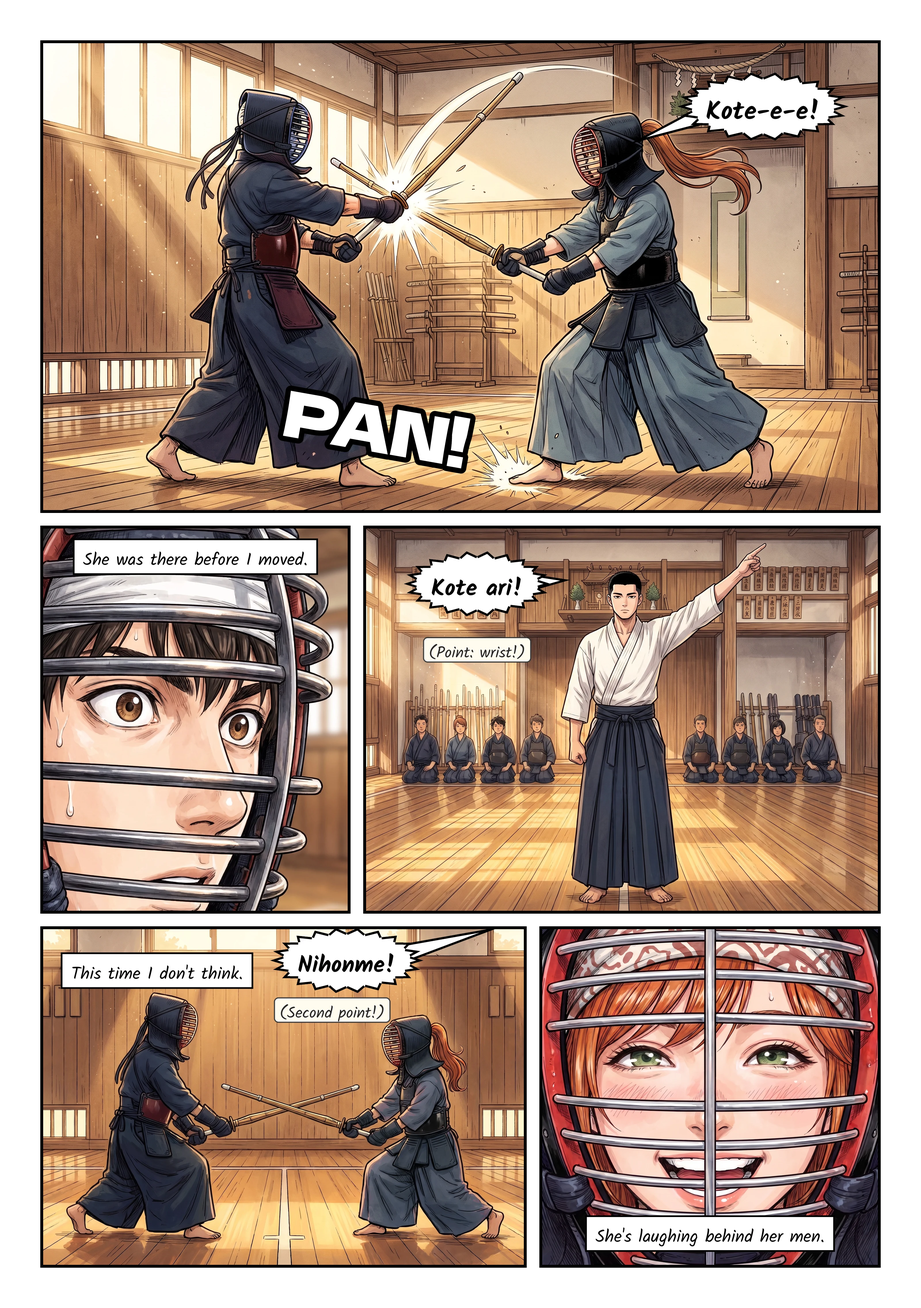
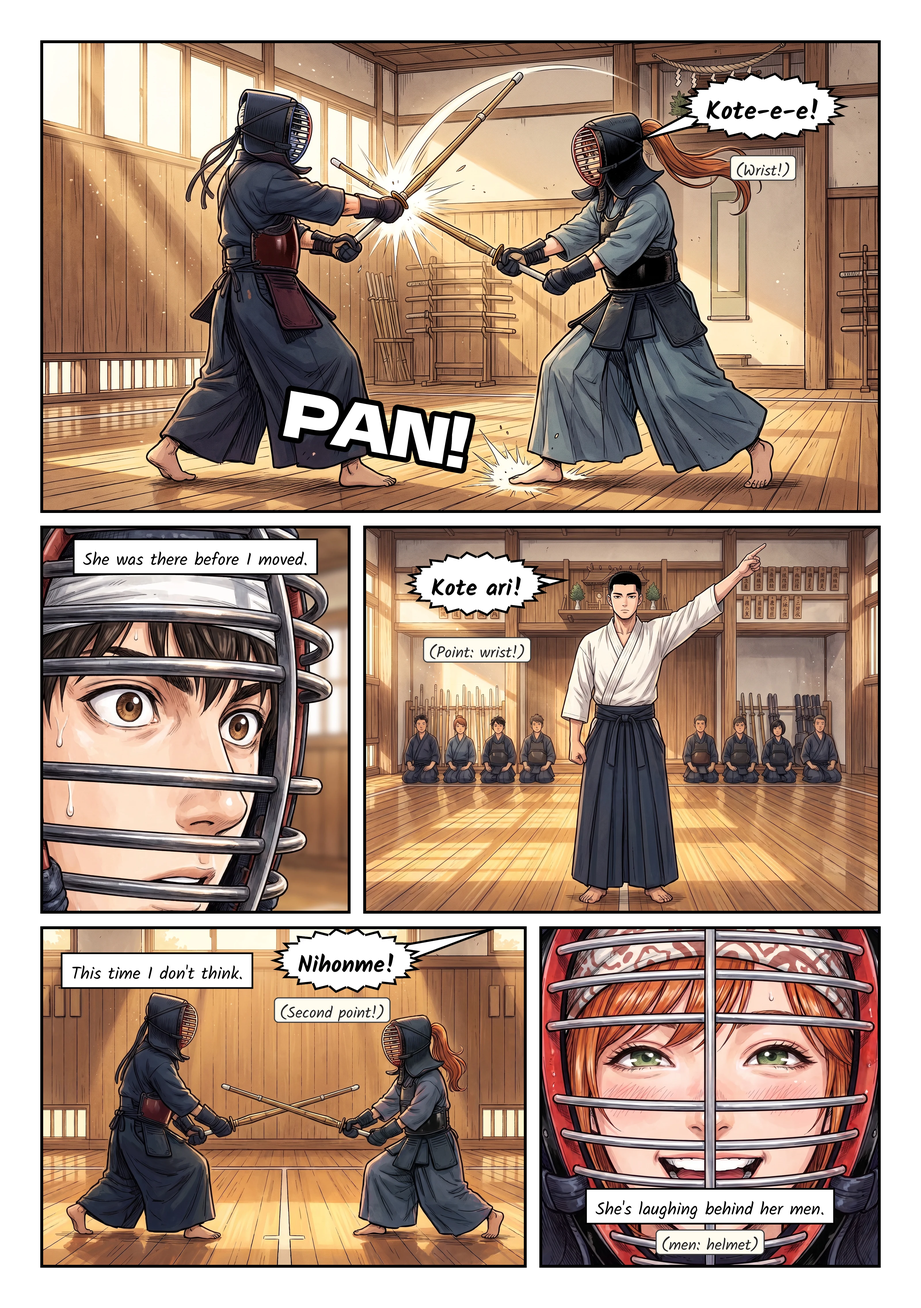
Ch2 punch list (Oct 25), checkpoint: script edits, Wednesday-morning Nanoha scene, glosses on every use, inserts open on panel 1, face windows wait for their image, tap hint during texts, Natsuki +0.5 for Ch2
Claude-Session: https://claude.ai/code/session_01RwxJ99cbnypmrRJW8WLjFt

Changed region(s): [[0.625, 0.9062, 0.9062, 0.9688], [0.7812, 0.0938, 0.875, 0.1562]]

diff --git a/v2/index.html b/v2/index.html
@@ -143,6 +143,12 @@ html,body{height:100%;margin:0;background:var(--ink);color:var(--paper);overflow
   background:rgba(240,236,228,.95);border-radius:22px;box-shadow:0 18px 50px rgba(0,0,0,.5);
   opacity:0;transform:translateY(12px);transition:opacity .35s,transform .35s;pointer-events:none;color:#1b1d26}
 #phone.on{opacity:1;transform:none}
+/* text messages hide the text box, so a small hint says what to do (author, Oct 25) */
+#tapHint{position:absolute;left:50%;bottom:clamp(18px,5vh,44px);transform:translateX(-50%);font:600 clamp(12px,1.7vh,15px)/1 var(--f-body);letter-spacing:.14em;text-transform:uppercase;
+  color:var(--paper-dim);background:rgba(16,19,31,.72);padding:9px 16px;border-radius:999px;opacity:0;transition:opacity .4s;pointer-events:none;z-index:6}
+#tapHint.on{opacity:1;animation:hintPulse 2.4s ease-in-out .4s infinite}
+@keyframes hintPulse{50%{opacity:.55}}
+#tapHint .k::before{content:'Tap'} @media (hover:hover) and (pointer:fine){ #tapHint .k::before{content:'Click'} }
 #phone .ph{font:700 13px/1 var(--f-body);color:#5b5f70;text-align:center;padding-bottom:6px;border-bottom:1px solid rgba(0,0,0,.08);letter-spacing:.04em}
 .msg{max-width:82%;padding:8px 12px;border-radius:16px;font-size:clamp(14px,1.9vh,17px);line-height:1.4;animation:pop .25s ease-out}
 .msg.me{align-self:flex-end;background:#e98fa4;color:#fff;border-bottom-right-radius:5px}
@@ -305,6 +311,7 @@ input{-webkit-user-select:text;user-select:text}
   <div id="ins" class="layer" aria-hidden="true"></div>
   <div id="ilabel"></div>
   <div id="phone"><div class="ph">Chie</div></div>
+  <div id="tapHint" aria-hidden="true"><span class="k"></span> to continue ▾</div>
   <div id="box" class="hidden" role="region" aria-live="polite">
     <div id="face" aria-hidden="true"><img alt=""></div>
     <div id="name"></div>
@@ -613,17 +620,18 @@ function toast(t){ const el=$('#toast'); el.textContent=t; el.classList.add('on'
 /* ---------- phone ---------- */
 function phoneMsg(who,text){ const p=$('#phone'); p.classList.add('on'); const m=document.createElement('div'); m.className='msg '+(who==='me'?'me':'them'); m.textContent=text; p.appendChild(m);
   while(p.scrollHeight>p.clientHeight && p.children.length>2) p.children[1].remove(); }
-function phoneClear(){ const p=$('#phone'); p.classList.remove('on'); setTimeout(()=>{ if(!p.classList.contains('on')) [...p.querySelectorAll('.msg')].forEach(m=>m.remove()); },400); }
+function tapHint(on){ const h=$('#tapHint'); clearTimeout(tapHint.t); if(!on||skipOn){ h.classList.remove('on'); return; } tapHint.t=setTimeout(()=>h.classList.add('on'), 600); }
+function phoneClear(){ tapHint(false); const p=$('#phone'); p.classList.remove('on'); setTimeout(()=>{ if(!p.classList.contains('on')) [...p.querySelectorAll('.msg')].forEach(m=>m.remove()); },400); }
 
 /* ---------- text ---------- */
 function cps(){ return prefs.text>=100?1e9: 18+prefs.text*1.1; }
 /* {term|gloss} shows a Japanese term with a small English gloss after it (style guide §5) */
 /* a term with a translator's note (script.json "notes", from production/pilot-v2/script/notes.txt) is underlined, and a tap opens the note */
-function segs(t){ const out=[]; let m, last=0, re=/\{([^|}]+)\|([^}]+)\}/g;
-  while((m=re.exec(t))){ if(m.index>last) out.push({t:t.slice(last,m.index)}); const k=m[1].trim().toLowerCase(), n=NOTES[k]?k:null;
+function segs(t){ const out=[]; let m, last=0, re=/\{([^|}]+)\|([^|}]+)(?:\|([^}]+))?\}/g;   // {term|gloss} or {term|gloss|note key}
+  while((m=re.exec(t))){ if(m.index>last) out.push({t:t.slice(last,m.index)}); const k=(m[3]||m[1]).trim().toLowerCase(), n=NOTES[k]?k:null;
     out.push({t:m[1], n, gl:m[2]}); out.push({t:'\u00a0('+m[2]+')', g:1, n}); last=re.lastIndex; }
   if(last<t.length) out.push({t:t.slice(last)}); return out; }
-function plain(t){ return String(t||'').replace(/\{([^|}]+)\|([^}]+)\}/g,'$1 ($2)'); }
+function plain(t){ return String(t||'').replace(/\{([^|}]+)\|([^|}]+)(?:\|[^}]+)?\}/g,'$1 ($2)'); }
 let curSegs=[], curLen=0;
 function renderTo(n){ textEl.textContent=''; let left=n, wrap=null;
   for(const x of curSegs){ if(left<=0) break; const piece=x.t.slice(0,left); left-=x.t.length;
@@ -666,10 +674,16 @@ function faceFor(c){
   const spr=lastSpr[w]||firstSpr(w); return spr ? `img/face/${spr}.webp` : null;
 }
 function firstSpr(w){ const c=S&&S.find(c=>c.t==='show'&&c.who===w); return c?c.spr:null; }
+const faceIms={};
+function faceIm(url){ if(!faceIms[url]){ const i=new Image(); i.src=url; faceIms[url]=i; } return faceIms[url]; }
 function showFace(url, who){
+  const tok=showFace.tok=(showFace.tok||0)+1;
   if(!url){ faceEl.classList.remove('on'); box.classList.remove('withface'); return; }
-  faceEl.style.setProperty('--nc',(CHAR[who]||{}).c||'var(--gilt)');
-  if(!faceImg.src.endsWith(url)) faceImg.src=url; faceEl.classList.add('on'); box.classList.add('withface');
+  faceEl.style.setProperty('--nc',(CHAR[who]||{}).c||'var(--gilt)'); box.classList.add('withface');
+  if(faceImg.src.endsWith(url)){ faceEl.classList.add('on'); return; }
+  const im=faceIm(url), put=()=>{ if(tok!==showFace.tok) return; faceImg.src=url; faceEl.classList.add('on'); };
+  if(im.complete&&im.naturalWidth) put();
+  else { faceEl.classList.remove('on'); (im.decode?im.decode():new Promise(r=>{im.onload=im.onerror=r;})).then(put,put); }   // a face that hasn't loaded yet: the window waits for it instead of showing the last one
 }
 
 /* ---------- short animated moments (canon §2, the Ch2 catch): img/anim/NAME.mp4 plays once over the stage, then the
@@ -711,7 +725,7 @@ function insertStart(c){
   insData(c.name).then(d=>{
     if(tok!==insertStart.tok || curLine!==c) return;
     const steps=[]; let g=0;
-    d.pages.forEach((p,pi)=>{ steps.push({pg:pi, box:null, g:-1}); p.panels.forEach(b=>steps.push({pg:pi, box:b, g:g++})); });
+    d.pages.forEach((p,pi)=>{ p.panels.forEach(b=>steps.push({pg:pi, box:b, g:g++})); });   // no whole-page step: each page opens on its first panel (author, Oct 25)
     if(g!==c.panels.length) note('insert', `${c.name}: ${g} panel boxes for ${c.panels.length} scripted panels`);
     insEl.innerHTML=''; insEl.style.transition='';
     const pages=d.pages.map(p=>{ const e=document.createElement('div'); e.className='ipg'; e.style.width=d.w+'px'; e.style.height=d.h+'px';
@@ -770,7 +784,7 @@ function run(){
     if(state.i>=S.length){ store.set('v2cont',null); return endPilot(); }
     while(state.i<S.length){
       const c=S[state.i++];
-      if(c.t!=='phone' && c.t!=='say' && c.t!=='nar') {/* fallthrough */}
+      if(c.t!=='phone') tapHint(false);
       switch(c.t){
         case 'scene': state.scene=c.id; store.set('v2cont',snap()); break;
         case 'bg': phoneClear(); if(state.cg) setCg(null, c.tr==='cut'||c.tr==='flash'?'cut':'fade'); setBg(c.name,c.tr); hideAll(); if(c.name==='black'||c.name==='white') box.classList.add('hidden'); if(c.tr==='slow'||c.tr==='flash') return pause(skipOn?80:(c.name==='black'||c.name==='white')&&c.tr==='slow'?1900:1100); if(c.name==='black'||c.name==='white') return pause(skipOn?60:600); break;
@@ -792,7 +806,7 @@ function run(){
         case 'video': break; // future cutscenes: falls back to continuing
         case 'anim': return playAnim(c);
         case 'insert': return insertStart(c);
-        case 'phone': if(!skipOn) playSfx('notif'); showFace(null); curLine=c; box.classList.add('hidden'); phoneMsg(c.who,c.text); nameEl.textContent=''; textEl.textContent=''; log.push({who:c.who==='me'?'Natsuki (text)':'Chie (text)',t:c.text}); devUpdate(); return waitTap(0);
+        case 'phone': if(!skipOn) playSfx('notif'); showFace(null); curLine=c; box.classList.add('hidden'); phoneMsg(c.who,c.text); tapHint(true); nameEl.textContent=''; textEl.textContent=''; log.push({who:c.who==='me'?'Natsuki (text)':'Chie (text)',t:c.text}); devUpdate(); return waitTap(0);
         case 'say': case 'nar': return line(c);
       }
     }
@@ -1170,7 +1184,7 @@ function loadScript(){
   if(!scriptP) scriptP=fetch('script.json').then(r=>{ if(!r.ok) throw new Error('could not load the story (script.json '+r.status+')'); return r.json(); })
     .then(j=>{ S=j.script; SPK=j.speakers; SIG=sigOf(S); S.forEach(c=>{ if(c.t==='scene'&&c.title) SCENE_T[c.id]=c.title; });
       NOTES=(j.notes&&typeof j.notes==='object')?j.notes:{}; NOTE_T={};
-      S.forEach(c=>{ if(c.text) for(const m of String(c.text).matchAll(/\{([^|}]+)\|([^}]+)\}/g)){ const k=m[1].trim().toLowerCase(); if(NOTES[k]&&!NOTE_T[k]) NOTE_T[k]={term:m[1].trim(), gloss:m[2].trim()}; } }); $('#mCont').disabled=!store.get('v2cont',null); return j; })
+      S.forEach(c=>{ if(c.text) for(const m of String(c.text).matchAll(/\{([^|}]+)\|([^|}]+)(?:\|([^}]+))?\}/g)){ if(m[3]) continue; const k=m[1].trim().toLowerCase(); if(NOTES[k]&&!NOTE_T[k]) NOTE_T[k]={term:m[1].trim(), gloss:m[2].trim()}; } }); $('#mCont').disabled=!store.get('v2cont',null); return j; })
     .catch(e=>{ scriptP=null; throw e; });
   return scriptP;
 }
@@ -1200,6 +1214,8 @@ setInterval(()=>{ if(!S) return; for(let k=state.i;k<Math.min(S.length,state.i+4
     if(!preloaded.has(v)){preloaded.add(v); fetch(v).catch(()=>preloaded.delete(v));} }
   if(c.t==='insert' && !preloaded.has('ins:'+c.name)){ preloaded.add('ins:'+c.name);
     insData(c.name).then(d=>d.pages.forEach(p=>{ const i=new Image(); i.src=p.src; })).catch(()=>preloaded.delete('ins:'+c.name)); }
+  if(c.t==='say'&&c.face){ faceIm(c.who==='kohei'?`img/face/kohei_${c.face}.webp`:`img/face/${c.who}_${c.face}.webp`); }
+  if(c.t==='say'&&c.who==='kohei'&&!c.face) faceIm('img/face/kohei_neutral.webp');
   if(c.t==='say'&&ac) voiceBuf(c.id); } },1500);
 })();
 </script>

diff --git a/production/pipeline/vn/voice_pack.py b/production/pipeline/vn/voice_pack.py
@@ -1,6 +1,6 @@
 """Cut voiced lines out of the batched takes, apply the cast's post-processing and pack them per scene.
 
-  pitch: style guide §7 ("+2" = asetrate x1.1225 then atempo 0.8909; "+4" = 1.2599 / 0.7937; "+1" = 1.0595 / 0.9439)
+  pitch: style guide §7 ("+2" = asetrate x1.1225 then atempo 0.8909; "+4" = 1.2599 / 0.7937; "+1" = 1.0595 / 0.9439; "+0.5" = 1.0293 / 0.9715)
   past_natsuki: a soft echo, so the dream voice sits apart from the present day
   every line: 50 ms pad in, 120 ms out, short fades, leveled per line to the same speech RMS (-21 dBFS), peaks limited
 
@@ -21,8 +21,13 @@ def speech_rms_db(path, a, b):
     v = e[e > max(e.max() * 0.1, 1e-4)]
     return 20 * np.log10(np.sqrt(np.mean(v ** 2)))
 
-PITCH = {"nanoha": 2, "akane": 2, "rika": 2, "yuzu": 2, "mio": 4, "natsuki": 1}   # rika +4 -> +2 (author, Oct 17); natsuki +1 (Oct 24)
-RATE = {1: (1.0595, 0.9439), 2: (1.1225, 0.8909), 4: (1.2599, 0.7937)}
+PITCH = {"nanoha": 2, "akane": 2, "rika": 2, "yuzu": 2, "mio": 4, "natsuki": 0.5}   # rika +4 -> +2 (author, Oct 17); natsuki +1 (Oct 24) -> +0.5 (Oct 25)
+PITCH_KEEP = {("natsuki", "c1_"): 1}   # the approved Ch1 keeps Natsuki at +1 until the author says otherwise (Oct 25)
+RATE = {0.5: (1.0293, 0.9715), 1: (1.0595, 0.9439), 2: (1.1225, 0.8909), 4: (1.2599, 0.7937)}
+def pitch_for(who, line_id):
+    for (w, prefix), v in PITCH_KEEP.items():
+        if w == who and line_id.startswith(prefix): return v
+    return PITCH.get(who)
 
 lines, jobs, segs, takes, out = (json.load(open(sys.argv[1])), json.load(open(sys.argv[2])),
                                  json.load(open(sys.argv[3])), sys.argv[4], sys.argv[5])
@@ -35,8 +40,8 @@ for x in lines:
     take, a, b, _ = segs[x["id"]]
     a = max(0.0, a - 0.05); b = b + 0.12
     f = [f"atrim={a:.3f}:{b:.3f}", "asetpts=PTS-STARTPTS"]
-    if x["who"] in PITCH:
-        r, t = RATE[PITCH[x["who"]]]
+    if pitch_for(x["who"], x["id"]):
+        r, t = RATE[pitch_for(x["who"], x["id"])]
         f += [f"asetrate=24000*{r}", "aresample=24000", f"atempo={t}"]
     if x["who"] == "past_natsuki":
         f += ["aecho=0.85:0.6:70|140:0.22|0.12"]

diff --git a/production/pipeline/vn/compile_script.py b/production/pipeline/vn/compile_script.py
@@ -8,7 +8,7 @@ stay keyed to the same IDs). Lines without one get the next free number for thei
 --write-ids writes those new IDs back into the source.
 
 Translator's notes: if a `notes.txt` (`term | note` per line) sits next to the first source, the notes for terms the
-script glosses as {term|gloss} go into the output as "notes" (lowercase term -> note); the engine underlines those
+script glosses as {term|gloss} (or {term|gloss|note key}, for a spelling such as "Kote-e-e!" that uses another term's note) go into the output as "notes" (lowercase term -> note); the engine underlines those
 terms and opens the note on a tap.
 
 Ch2 ops (Oct 24): `@wear kohei kendo|work|school` (the outfit Kōhei's face windows show, until changed),
@@ -229,7 +229,7 @@ def compile_files(paths):
     return cmds, voice, errors, new_ids
 
 
-GLOSS = re.compile(r"\{([^|}]+)\|([^}]+)\}")
+GLOSS = re.compile(r"\{([^|}]+)\|([^|}]+)(?:\|([^}]+))?\}")   # {term|gloss} or {term|gloss|note key} (Oct 25)
 
 
 def read_notes(path):
@@ -256,8 +256,8 @@ def notes_for(cmds, notes):
     """The notes the script's glossed terms use, in first-use order, and the notes nothing uses."""
     used = {}
     for c in cmds:
-        for term, _ in GLOSS.findall(c.get("text", "")):
-            k = term.strip().lower()
+        for term, _, key in GLOSS.findall(c.get("text", "")):
+            k = (key or term).strip().lower()
             if k in notes and k not in used:
                 used[k] = notes[k]
     return used, sorted(set(notes) - set(used))

diff --git a/production/pipeline/vn/reader_view.py b/production/pipeline/vn/reader_view.py
@@ -22,7 +22,7 @@ sys.path.insert(0, os.path.dirname(os.path.abspath(__file__)))
 from compile_script import SPEAKERS, split_id, read_notes  # display names, kept in one place
 
 SAY = re.compile(r'^(\w+)(?:<(\w+)>)?(?:\((\w+)\))?:\s*"(.*?)"\s*(?:\|\|.*)?$')
-GLOSS = re.compile(r'\{([^|}]+)\|([^}]+)\}')
+GLOSS = re.compile(r'\{([^|}]+)\|([^|}]+)(?:\|([^}]+))?\}')
 
 
 def bg_label(name):
@@ -105,8 +105,8 @@ def convert(paths, split):
                     print("unparsed:", s, file=sys.stderr)
             if out:
                 cur.append(GLOSS.sub(r"\1 (\2)", out))
-                for term, _ in GLOSS.findall(out):
-                    k = term.strip().lower()
+                for term, _, key in GLOSS.findall(out):
+                    k = (key or term).strip().lower()
                     if k in notes and k not in noted:
                         noted.add(k); cur.append(f"[Translator's note, {term.strip()}: {notes[k]}]")
     if cur:
